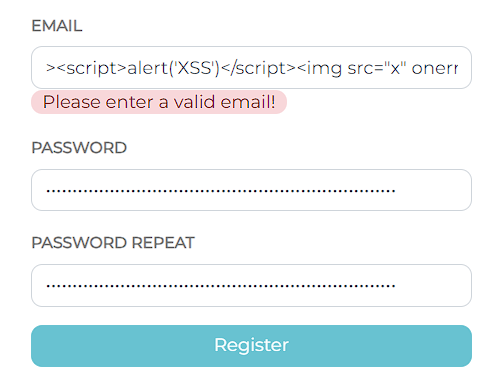
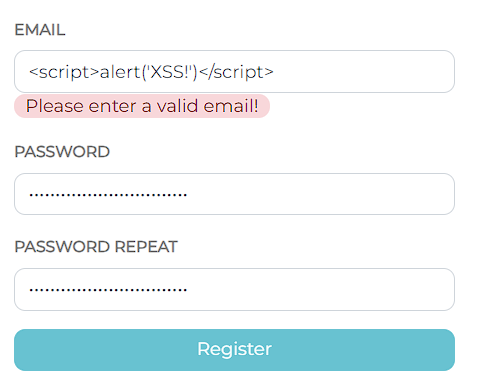
chore: Corrections in code related with ASVS 8.1.4

diff --git a/resource_server/src/main/java/com/commerce/backend/interceptor/RateLimitInterceptor.java b/resource_server/src/main/java/com/commerce/backend/interceptor/RateLimitInterceptor.java
@@ -1,0 +1,59 @@
+package com.commerce.backend.interceptor;
+
+import javax.servlet.http.HttpServletRequest;
+import javax.servlet.http.HttpServletResponse;
+
+import org.springframework.http.HttpStatus;
+import org.springframework.stereotype.Component;
+import org.springframework.web.servlet.HandlerInterceptor;
+
+import java.util.LinkedList;
+import java.util.Map;
+import java.util.Queue;
+import java.util.concurrent.ConcurrentHashMap;
+
+@Component
+public class RateLimitInterceptor implements HandlerInterceptor {
+
+    private static final int MAX_REQUESTS = 10; // Número máximo de solicitações permitidas
+    private static final long TIME_INTERVAL = 60000; // Intervalo de tempo em milissegundos (1 minuto)
+    private static final Map<String, Queue<Long>> requestMap = new ConcurrentHashMap<>();
+
+    @Override
+    public boolean preHandle(HttpServletRequest request, HttpServletResponse response, Object handler)
+            throws Exception {
+        String ip = request.getRemoteAddr();
+        Queue<Long> requests = requestMap.computeIfAbsent(ip, k -> new LinkedList<>());
+
+        System.out.println(ip);
+        System.out.println(ip);
+        System.out.println(ip);
+        System.out.println(ip);
+        System.out.println(ip);
+        System.out.println(ip);
+        System.out.println(ip);
+        System.out.println(ip);
+        System.out.println(ip);
+        System.out.println(ip);
+        System.out.println(ip);
+        System.out.println(ip);
+        System.out.println(ip);
+
+
+        // Remova as solicitações mais antigas do mapa
+        long currentTime = System.currentTimeMillis();
+        while (!requests.isEmpty() && currentTime - requests.peek() > TIME_INTERVAL) {
+            requests.poll();
+        }
+
+        // Verifique se o limite de solicitações foi excedido
+        if (requests.size() >= MAX_REQUESTS) {
+            response.setStatus(HttpStatus.TOO_MANY_REQUESTS.value());
+            return false; // Bloqueia a execução do endpoint
+        }
+
+        // Registre a nova solicitação
+        requests.offer(currentTime);
+        return true; // Permite a execução do endpoint
+    }
+}

diff --git a/resource_server/src/main/java/com/commerce/backend/service/UserServiceImpl.java b/resource_server/src/main/java/com/commerce/backend/service/UserServiceImpl.java
@@ -37,13 +37,24 @@ public class UserServiceImpl implements UserService {
     }
 
     @Override
-    public User register(RegisterUserRequest registerUserRequest) {
+    public User register(RegisterUserRequest registerUserRequest) throws Exception {
         if (userExists(registerUserRequest.getEmail())) {
             throw new InvalidArgumentException("An account already exists with this email");
         }
 
-        String sanitizedEmail = Encode.forHtml(registerUserRequest.getEmail());
-        String sanitizedPassword = Encode.forHtml(registerUserRequest.getPassword());
+        String userEmail = registerUserRequest.getEmail();
+        String userPassword = registerUserRequest.getPassword();
+
+        String sanitizedEmail = Encode.forHtml(userEmail);
+        String sanitizedPassword = Encode.forHtml(userPassword);
+
+        if(!sanitizedPassword.equals(userPassword)){
+            throw new Exception("Invalid Password: "+userPassword);
+        }
+
+        if(!sanitizedEmail.equals(userEmail)){
+            throw new Exception("Invalid Email: "+userEmail);
+        }
 
         User user = new User();
         user.setEmail(sanitizedEmail);

diff --git a/resource_server/src/main/java/com/commerce/backend/config/WebMvcConfig.java b/resource_server/src/main/java/com/commerce/backend/config/WebMvcConfig.java
@@ -1,0 +1,21 @@
+package com.commerce.backend.config;
+
+import com.commerce.backend.interceptor.RateLimitInterceptor;
+import org.springframework.beans.factory.annotation.Autowired;
+import org.springframework.context.annotation.Configuration;
+import org.springframework.web.servlet.config.annotation.InterceptorRegistry;
+import org.springframework.web.servlet.config.annotation.WebMvcConfigurer;
+
+@Configuration
+public class WebMvcConfig implements WebMvcConfigurer {
+
+    @Autowired
+    private RateLimitInterceptor rateLimitInterceptor;
+
+    @Override
+    public void addInterceptors(InterceptorRegistry registry) {
+        registry.addInterceptor(rateLimitInterceptor)
+                .addPathPatterns("/api/public/product/search",
+                                "/api/public/account/registration");
+    }
+}

diff --git a/resource_server/src/main/java/com/commerce/backend/api/PublicUserController.java b/resource_server/src/main/java/com/commerce/backend/api/PublicUserController.java
@@ -27,7 +27,7 @@ public class PublicUserController extends PublicApiController {
     }
 
     @PostMapping(value = "/account/registration")
-    public ResponseEntity<HttpStatus> registerUser(@RequestBody @Valid RegisterUserRequest registerUserRequest) {
+    public ResponseEntity<HttpStatus> registerUser(@RequestBody @Valid RegisterUserRequest registerUserRequest) throws Exception {
         User user = userService.register(registerUserRequest);
         tokenService.createEmailConfirmToken(user);
         return new ResponseEntity<>(HttpStatus.OK);

diff --git a/resource_server/src/main/java/com/commerce/backend/service/UserService.java b/resource_server/src/main/java/com/commerce/backend/service/UserService.java
@@ -9,7 +9,7 @@ import com.commerce.backend.model.request.user.UpdateUserRequest;
 import com.commerce.backend.model.response.user.UserResponse;
 
 public interface UserService {
-    User register(RegisterUserRequest registerUserRequest);
+    User register(RegisterUserRequest registerUserRequest) throws Exception;
 
     UserResponse fetchUser();
 

diff --git a/resource_server/src/test/java/com/commerce/backend/service/UserServiceImplTest.java b/resource_server/src/test/java/com/commerce/backend/service/UserServiceImplTest.java
@@ -104,7 +104,7 @@ class UserServiceImplTest {
 
 
     @Test
-    void it_should_register_a_user() {
+    void it_should_register_a_user() throws Exception {
 
         // given
         String email = faker.lorem().word();

diff --git a/Deliverables/Phase2/Implementation/Use Case 7/Use Case 7 - Implementação.md b/Deliverables/Phase2/Implementation/Use Case 7/Use Case 7 - Implementação.md
@@ -1,4 +1,4 @@
-# Implementação - Caso de Uso "Criar uma conta com os meus credenciais"
+# Implementação - Caso de Uso "Criar uma conta com as minhas credenciais"
 
 ## Descrição do Caso de Uso
 
@@ -17,7 +17,7 @@ vulnerabilidades de XSS, para comprometer a segurança do sistema ou obter acess
 de criação de conta (POST) de forma maliciosa, causando uma negação de serviço/aumento do tempo de resposta temporária 
 para os utilizadores legítimos.
 
-- **Interceção de pedidos:** Um atacante pode intercetar pedidos de criação de conta e guardar os credenciais do utilizador,
+- **Interceção de pedidos:** Um atacante pode intercetar pedidos de criação de conta e guardar as credenciais do utilizador,
 podendo aceder a informação sensível.
 
 ## ASVS Associados
@@ -28,11 +28,14 @@ ASVS 5.3.3: Verificar que a aplicação, de preferência de forma automática ou
 
 - **Ataques de Sobrecarga:**
 
-ASVS 8.1.4: Verify the application can detect and alert on abnormal numbers of requests, such as by IP, user, total per hour or day, or whatever makes sense for the application.
+ASVS 8.1.4: Verificar se a aplicação pode detetar e alertar para números anormais de pedidos, como por IP, utilizador, total por hora ou dia, ou o que fizer sentido para a aplicação.
 
 - **Interceção de pedidos:**
 
-ASVS 5.3.8: Verify that the application protects against OS command injection and that operating system calls use parameterized OS queries or use contextual command line output encoding.
+ASVS 9.1.1: Verificar se todas as credenciais, tokens de autenticação e informações sensíveis são transportadas apenas através de um canal criptografado (TLS).
+
+**Nota:** Para cada caso de abuso foi analisado qual o ASVS que melhor se relaciona com o caso de abuso, tendo em conta que com a implementação deste, outros ASVS são também abordados.
+Este estudo foi feito no Excel a entregar.
 
 ## Implementação da UC
 
@@ -42,7 +45,7 @@ Esta UC já se encontra desenvolvida. Apenas a aplicação dos ASVS foram necess
 
 ### ASVS 5.3.3
 
-No momento em que o utilizador introduz um e-mails é feito primeiro uma validação desse texto introduzido 
+No momento em que o utilizador introduz um e-mail é feito primeiro uma validação desse texto introduzido 
 utilizando uma gramática que valida se o texto tem o formato de um e-mail:
 
 ![passwordGrammar.png](img%2FpasswordGrammar.png)
@@ -56,9 +59,14 @@ do Encoder, da biblioteca OWASP Java Encoder, que faz a sanitização tanto do e
 
 ![ecoder.png](img%2Fecoder.png)
 
+Assim, mesmo que utilizador tente inserir código malicioso na Password, este é validado.
+
+![error2.png](img%2Ferror2.png)
+
 Além disso, todos os e-mails e senhas são apenas armazenados na base de dados e nunca são exibidos na UI, o que ajuda a proteger a aplicação.
 No entanto, a proteção contra XSS refletido, armazenado e baseado em DOM é garantida principalmente pelas medidas de sanitização e validação implementadas tanto no front-end quanto no back-end, estando assim de acordo com o ASVS 5.3.3.
-
+</br>
+</br>
 ### ASVS 8.1.4
 
 Tal como já foi descrito no [Use Case 3 - Implementação.md](..%2FUse%20Case%203%2FUse%20Case%203%20-%20Implementa%E7%E3o.md),
@@ -69,3 +77,28 @@ adicionar o endpoint que é chamado no momento do registo ("/account/registratio
 que define quais os endpoints que deve ser monitorados pelo interceptor:
 
 ![interceptor.png](img%2Finterceptor.png)
+
+Assim, se um utilizador tentar enviar demasiados pedidos o seu IP irá ficar bloqueado durante o periodo de tempo configurado.
+
+![tooManyRequests.png](img%2FtooManyRequests.png)
+</br>
+</br>
+### ASVS 9.1.1
+
+Embora a implementação de um canal criptografado (TLS) para transportar informações sensíveis não previna a interceção
+de pedidos, é capaz de proteger as mensagens de maneira que, mesmo que um atacante consiga interceptar essas mensagens, ele não consiga lê-las ou desencriptá-las.
+
+Assim, se todas as comunicações realizadas entre cliente e servidor forem comunicações via HTTPS com certificado TLS, podemos garantir que este caso de abuso, assim
+como qualquer caso de abuso associado a interceção de mensgaens, está mitigado.
+
+Posto isto, a equipa implementou a comunicação baseada em HTTPS com certificado TLS para todas as
+comunicações entre cliente e servidor.
+
+![https.png](img%2Fhttps.png)
+
+Deste modo, toda a informação sensível enviada para o endpoint de criação de conta ("api/public/account/registration") está protegida.
+
+![httpsRegister.png](img%2FhttpsRegister.png)
+
+
+
